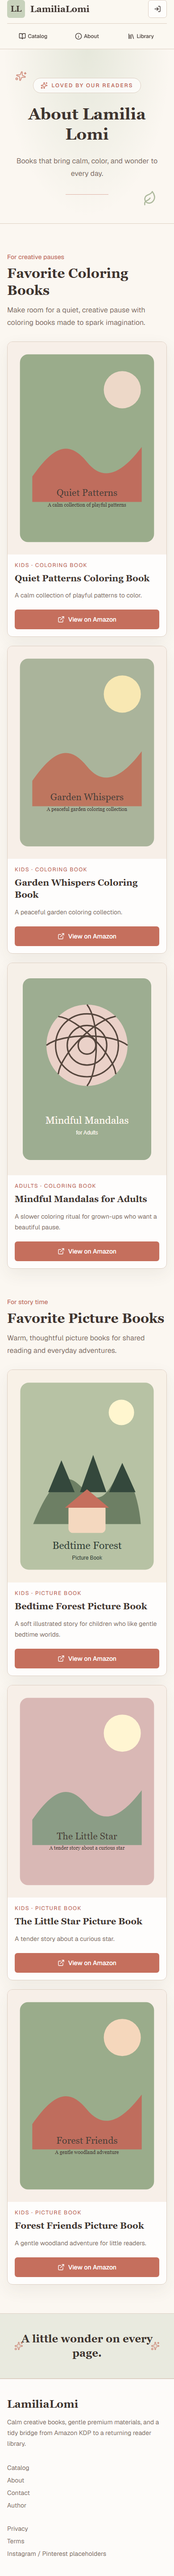
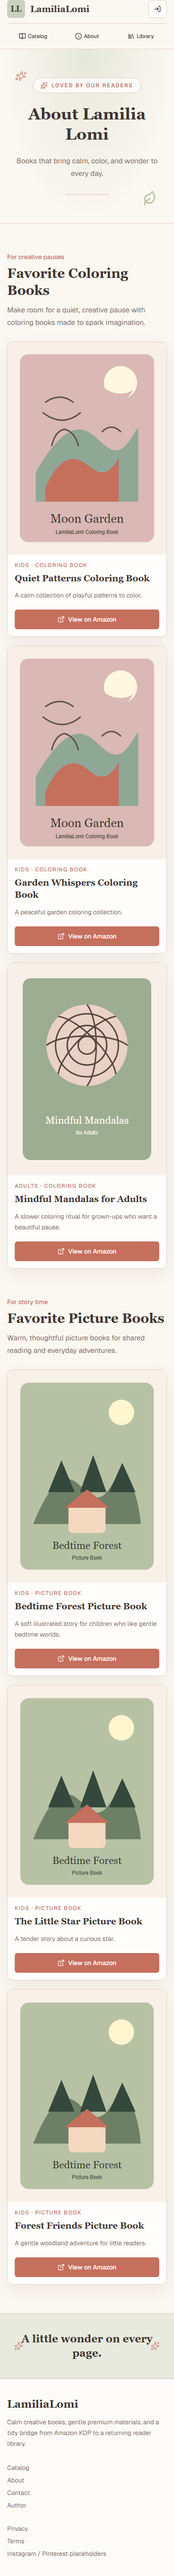
test: stabilize About browser fixtures

diff --git a/tests/e2e/issue-50-about.spec.ts b/tests/e2e/issue-50-about.spec.ts
@@ -8,14 +8,6 @@ import { acquireLocalContentStoreLock } from "./local-content-store-lock";
 import { isLocalDemoAppTarget } from "./local-target";
 
 const contentPath = path.join(process.cwd(), "data", "lamilialomi-content.local.json");
-const fixtureCoverFiles = [
-  "issue50-quiet.svg",
-  "issue50-garden.svg",
-  "issue50-little-star.svg",
-  "issue50-forest-friends.svg",
-] as const;
-const fixtureCoverDirectory = path.join(process.cwd(), "tests", "e2e", "fixtures", "issue-50");
-const publicCoverDirectory = path.join(process.cwd(), "public", "assets", "covers");
 const productSelections = [
   { label: "Favorite Coloring Books, pozycja 1", query: "Moon Garden", title: "Moon Garden Coloring Book", id: "11111111-1111-4111-8111-111111111111" },
   { label: "Favorite Coloring Books, pozycja 2", query: "Mindful Mandalas", title: "Mindful Mandalas for Adults", id: "22222222-2222-4222-8222-222222222222" },
@@ -36,10 +28,6 @@ test("About settings save six unique books and render responsively from current 
 
   const releaseContentStoreLock = await acquireLocalContentStoreLock();
   const originalContent = fs.existsSync(contentPath) ? fs.readFileSync(contentPath) : undefined;
-  const originalFixtureCovers = new Map(fixtureCoverFiles.map((fileName) => {
-    const publicPath = path.join(publicCoverDirectory, fileName);
-    return [publicPath, fs.existsSync(publicPath) ? fs.readFileSync(publicPath) : undefined] as const;
-  }));
   const consoleErrors: string[] = [];
   const failedRequests: string[] = [];
   const serverErrors: string[] = [];
@@ -71,28 +59,24 @@ test("About settings save six unique books and render responsively from current 
         slug: "issue-50-garden-whispers",
         title: "Garden Whispers Coloring Book",
         description: "A peaceful garden coloring collection.",
-        coverFileName: "issue50-garden.svg",
       }),
       createAboutFixtureProduct(pictureTemplate, {
         id: "66666666-6666-4666-8666-666666666666",
         slug: "issue-50-little-star",
         title: "The Little Star Picture Book",
         description: "A tender story about a curious star.",
-        coverFileName: "issue50-little-star.svg",
       }),
       createAboutFixtureProduct(pictureTemplate, {
         id: "77777777-7777-4777-8777-777777777777",
         slug: "issue-50-forest-friends",
         title: "Forest Friends Picture Book",
         description: "A gentle woodland adventure for little readers.",
-        coverFileName: "issue50-forest-friends.svg",
       }),
       createAboutFixtureProduct(coloringTemplate, {
         id: "88888888-8888-4888-8888-888888888888",
         slug: "issue-50-quiet-patterns",
         title: "Quiet Patterns Coloring Book",
         description: "A calm collection of playful patterns to color.",
-        coverFileName: "issue50-quiet.svg",
       }),
     );
     content.aboutPageSettings = {
@@ -101,10 +85,6 @@ test("About settings save six unique books and render responsively from current 
       favoritePictureBookIds: ["", "", ""],
     };
     fs.mkdirSync(path.dirname(contentPath), { recursive: true });
-    fs.mkdirSync(publicCoverDirectory, { recursive: true });
-    for (const fileName of fixtureCoverFiles) {
-      fs.copyFileSync(path.join(fixtureCoverDirectory, fileName), path.join(publicCoverDirectory, fileName));
-    }
     fs.writeFileSync(contentPath, `${JSON.stringify(content, null, 2)}\n`, "utf8");
 
     await page.setViewportSize({ width: 1440, height: 1000 });
@@ -269,11 +249,6 @@ test("About settings save six unique books and render responsively from current 
     try {
       if (originalContent) fs.writeFileSync(contentPath, originalContent);
       else if (fs.existsSync(contentPath)) fs.rmSync(contentPath);
-
-      for (const [publicPath, originalContents] of originalFixtureCovers) {
-        if (originalContents) fs.writeFileSync(publicPath, originalContents);
-        else if (fs.existsSync(publicPath)) fs.rmSync(publicPath);
-      }
     } finally {
       releaseContentStoreLock();
     }
@@ -287,7 +262,6 @@ function createAboutFixtureProduct(
     slug: string;
     title: string;
     description: string;
-    coverFileName: string;
   },
 ): Product {
   const translation = template.translations.find((entry) => entry.locale === "en") ?? template.translations[0];
@@ -317,11 +291,8 @@ function createAboutFixtureProduct(
       ...cover,
       id: coverAssetId,
       productId: fixture.id,
-      path: `/assets/covers/${fixture.coverFileName}`,
       storagePath: undefined,
       storageProvider: undefined,
-      filename: fixture.coverFileName,
-      contentType: "image/svg+xml",
       title: `${fixture.title} cover`,
       isPublic: true,
       isActive: true,
